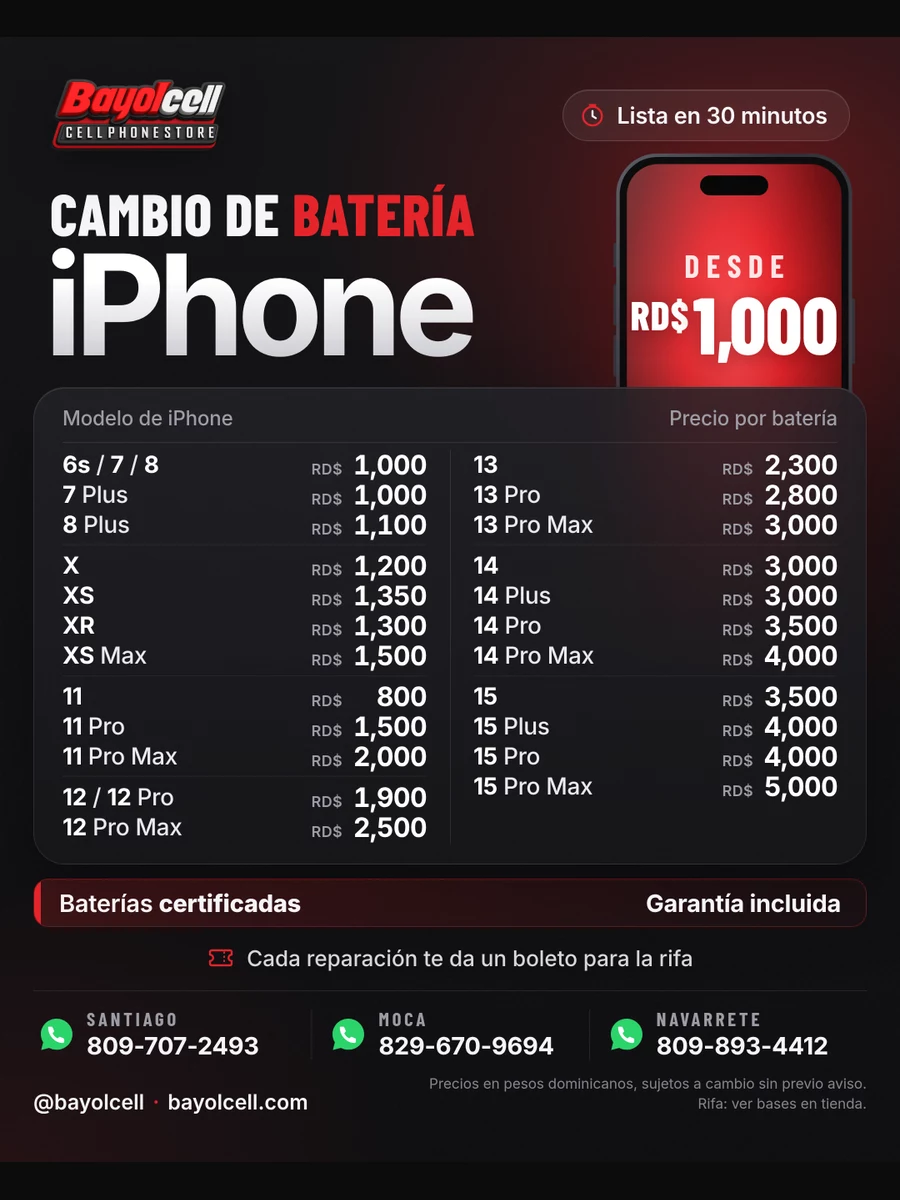
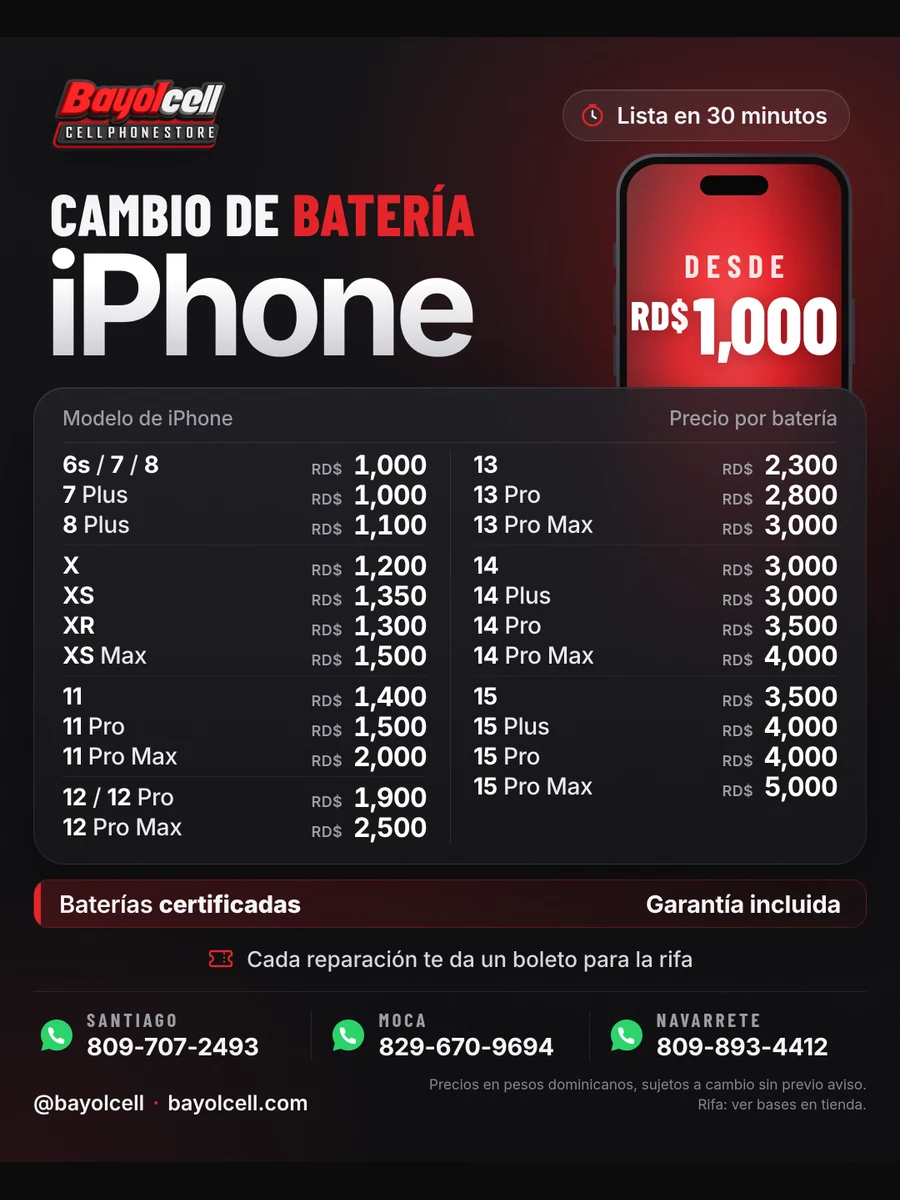
Batería del 11 a RD$1,400 en la imagen; bitácora y CLAUDE.md del ajuste de precios nivel 1 en Info Plus (2550, 2220)
Claude-Session: https://claude.ai/code/session_01XsqePqNsr899Mjtsv3s8DJ

diff --git a/herramientas/kit-catalogo/flyer-reparaciones/flyer.html b/herramientas/kit-catalogo/flyer-reparaciones/flyer.html
@@ -248,7 +248,7 @@ const DATOS = {
     left: [
       [["6s / 7 / 8",1000],["7 Plus",1000],["8 Plus",1100]],
       [["X",1200],["XS",1350],["XR",1300],["XS Max",1500]],
-      [["11",800],["11 Pro",1500],["11 Pro Max",2000]],
+      [["11",1400],["11 Pro",1500],["11 Pro Max",2000]],
       [["12 / 12 Pro",1900],["12 Pro Max",2500]],
     ],
     right: [

diff --git a/CLAUDE.md b/CLAUDE.md
@@ -991,3 +991,10 @@ Los PR #108/#109/#110 ya están en `main` (AI BOARD en producción). En Supabase
 - **10 oct 2026 (parte 3) — BITMAP por modelo y cara:** 16 diseños de placa × cara A (superior) / B (inferior) generados con Buzzy 4K (`assets/ai-board/placas/placa-<diseño>-<a|b>.webp` + `-mini`), elegidos por `familiaPlaca(modelo)`; el selector «Vista» cambia de cara. Siguen marcadas como ilustración. Prompt que funciona: «placa angosta ~2,2:1, derecha, completa, sin hueco de cámara/MagSafe/puerto» (sin eso salen con forma de teléfono).
 - **10 oct 2026 (parte 4) — Imágenes de REFOX en el BITMAP (con permiso):** Sterling paga la suscripción de REFOX BITMAP y REFOX autorizó por WhatsApp («REFOX- CHINA», 10-oct-2026 9:31 a. m.: «Si puedes replicarlo») usar sus imágenes en el sistema interno. REFOX solo funciona como programa de Windows: las capturas las toma el taller (Windows+Shift+S) y se suben al **catálogo privado** (bucket `placas`, nunca a `assets/` porque el repo es público). En «Registrar fotografía de placa»: botón **«Capturas de REFOX (autorizado)»** (pone título, revisión, permiso y procedencia) y **varias capturas a la vez** (máx. 40; título + nombre del archivo). Si el modelo tiene fotos en el catálogo, el BITMAP **las abre solas** al elegir el modelo y al cambiar de cara (la PRIMERA subida de cada cara = vista general; si esa cara no tiene foto, vuelve a la ilustración IA). `window.BayolAIBoard.showIllustration()`. Arreglado: en celular el selector «Vista» (cara A/B) estaba oculto por CSS. Estudio de REFOX con la skill Replica: `replica/recon.md` + `replica/features.csv` (capturas de referencia fuera del repo). Pruebas: 21 navegador + 38 unidad.
 - **10 oct 2026 (parte 5) — Buscador de cortos (BITMAP):** tarjeta «Buscador de cortos» (`diagnostico-ai-cortos.js`, estilos `.abc-*` en `diagnostico-ai-board.css`). Se escribe la línea en corto (ej. PP_VDD_MAIN) → se iluminan en la foto del catálogo los componentes marcados de esa línea + lista «Bien / Culpable»; el culpable se guarda en **`placas_cortos`** y arriba sale «el culpable más frecuente en el taller» para ese modelo+línea. **Marcar componentes** (una vez por modelo): con REFOX al lado, modo marcar → tocar la placa crea un punto en `placas_puntos` (x,y normalizados 0–1 sobre la foto, `nombre`, columna nueva **`redes text[]`**) o selecciona uno existente (agregar/quitar línea, renombrar, borrar). Las marcas son conocimiento COMPARTIDO: el SQL pendiente (`PEGAR-EN-SUPABASE-2026-10-10.sql` y la migración `20261010000000`) ahora deja a cualquier técnico con Diagnóstico ver/marcar/corregir y solo el autor o un admin borrar. El catálogo avisa la foto abierta con el evento `bayol-catalog-photo`. Migración `20261010010000_placas_cortos_buscador.sql` APLICADA. API `window.BayolCortos`. Pruebas: 22 navegador + 38 unidad + permisos.
+
+## ACTUALIZACIÓN 13 oct 2026 — Precios nivel 1 corregidos en Info Plus (batería 11 y tapa XS blanca) — APLICADO
+Autorizado por Sterling por escrito: «Arregla en Infoplus».
+- Cambios: **2550** «BATERIA IPHONE 11 NORMAL 22222» 800 → **1,400**; **2220** «TAPA IPHONE XS BLANCA» 3,000 → **1,500**.
+- Solo nivel 1, con contado = crédito = mínimo. 2602 «TAPA IPHONE 14 NORMAL BLANCA» se queda en 2,500 por decisión del dueño.
+- Mismo procedimiento que el 8 de octubre: función de un solo uso `infoplus-precios-ajuste-20261013` (leer en vivo → aplicar → releer, 2/2 coinciden). Después se retiró (stub 410) y se borró el token.
+- Las imágenes nuevas de batería y cristal trasero (`assets/reparacion-bateria.webp`, `assets/reparacion-cristal-trasero.webp`) salen de `herramientas/kit-catalogo/flyer-reparaciones/` con precios de nivel 1. Detalle en `docs/bitacora/2026-10-13-1230-claude-precios-infoplus-2550-2220.md`.

diff --git a/docs/bitacora/2026-10-13-1230-claude-precios-infoplus-2550-2220.md b/docs/bitacora/2026-10-13-1230-claude-precios-infoplus-2550-2220.md
@@ -1,0 +1,32 @@
+# 2026-10-13 12:30 — Claude: precios nivel 1 corregidos en Info Plus (2550 y 2220) y decisiones de las imágenes
+
+Sigue a `2026-10-13-1215-claude-verificacion-nivel1-flyers.md`.
+
+## Decisiones del dueño (por escrito)
+Respuesta del dueño: «1- 1400 / 2- si / 3- si / 4- 1.1 1500, 1.2 2500 / Arregla en Infoplus».
+1. Batería del iPhone 11 = **RD$1,400**.
+2. Cristal trasero 12 Pro / 12 Pro Max = RD$2,500 (sin artículo en Info Plus; va solo en la imagen).
+3. Cristal trasero 15 Plus = RD$3,500 en la imagen.
+4. Ajustes en Info Plus:
+   - «TAPA IPHONE XS BLANCA» → **RD$1,500**.
+   - «TAPA IPHONE 14 NORMAL BLANCA» (2602) → **RD$2,500**. Ya estaba en 2,500, así que no se tocó.
+
+## Cambio aplicado en Info Plus (solo nivel 1; contado = crédito = mínimo; niveles 2 y 3 sin tocar)
+| Código | Artículo | Antes (leído en vivo) | Ahora (releído en vivo) |
+|---|---|---:|---:|
+| 2550 | BATERIA IPHONE 11 NORMAL 22222 | 800 | **1,400** |
+| 2220 | TAPA IPHONE XS BLANCA | 3,000 | **1,500** |
+
+- **Cómo:** función de un solo uso `infoplus-precios-ajuste-20261013`.
+  - La lista de cambios está fija en el código y el token es de un solo uso (en el código solo va su hash). La clave se redacta.
+  - Antes de escribir comprueba la descripción en vivo.
+  - Pasos: leer → aplicar (`POST /articulo`, 2/2 `status 200 OK`) → releer (2/2 coinciden).
+  - Después se **retiró** (stub 410, sin lógica) y se **borró el token**.
+- Se refrescó `infoplus_articulos.niveles` con `infoplus-precios-sync`. Ya muestra 2550 = 1400 y 2220 = 1500.
+
+## Imágenes (rama `claude/flyers-reparacion`, sin publicar)
+- Batería: el 11 queda en **RD$1,400**. Se rehizo `assets/reparacion-bateria.webp`.
+- Cristal trasero: sin cambios (ya tenía 12 Pro / 12 Pro Max en 2,500 y 15 Plus en 3,500).
+
+## Pendiente
+- «Publícalo» del dueño para subir las imágenes (y, aparte, el catálogo `tienda.html` y el botón de la portada en `claude/catalogo-web`).
